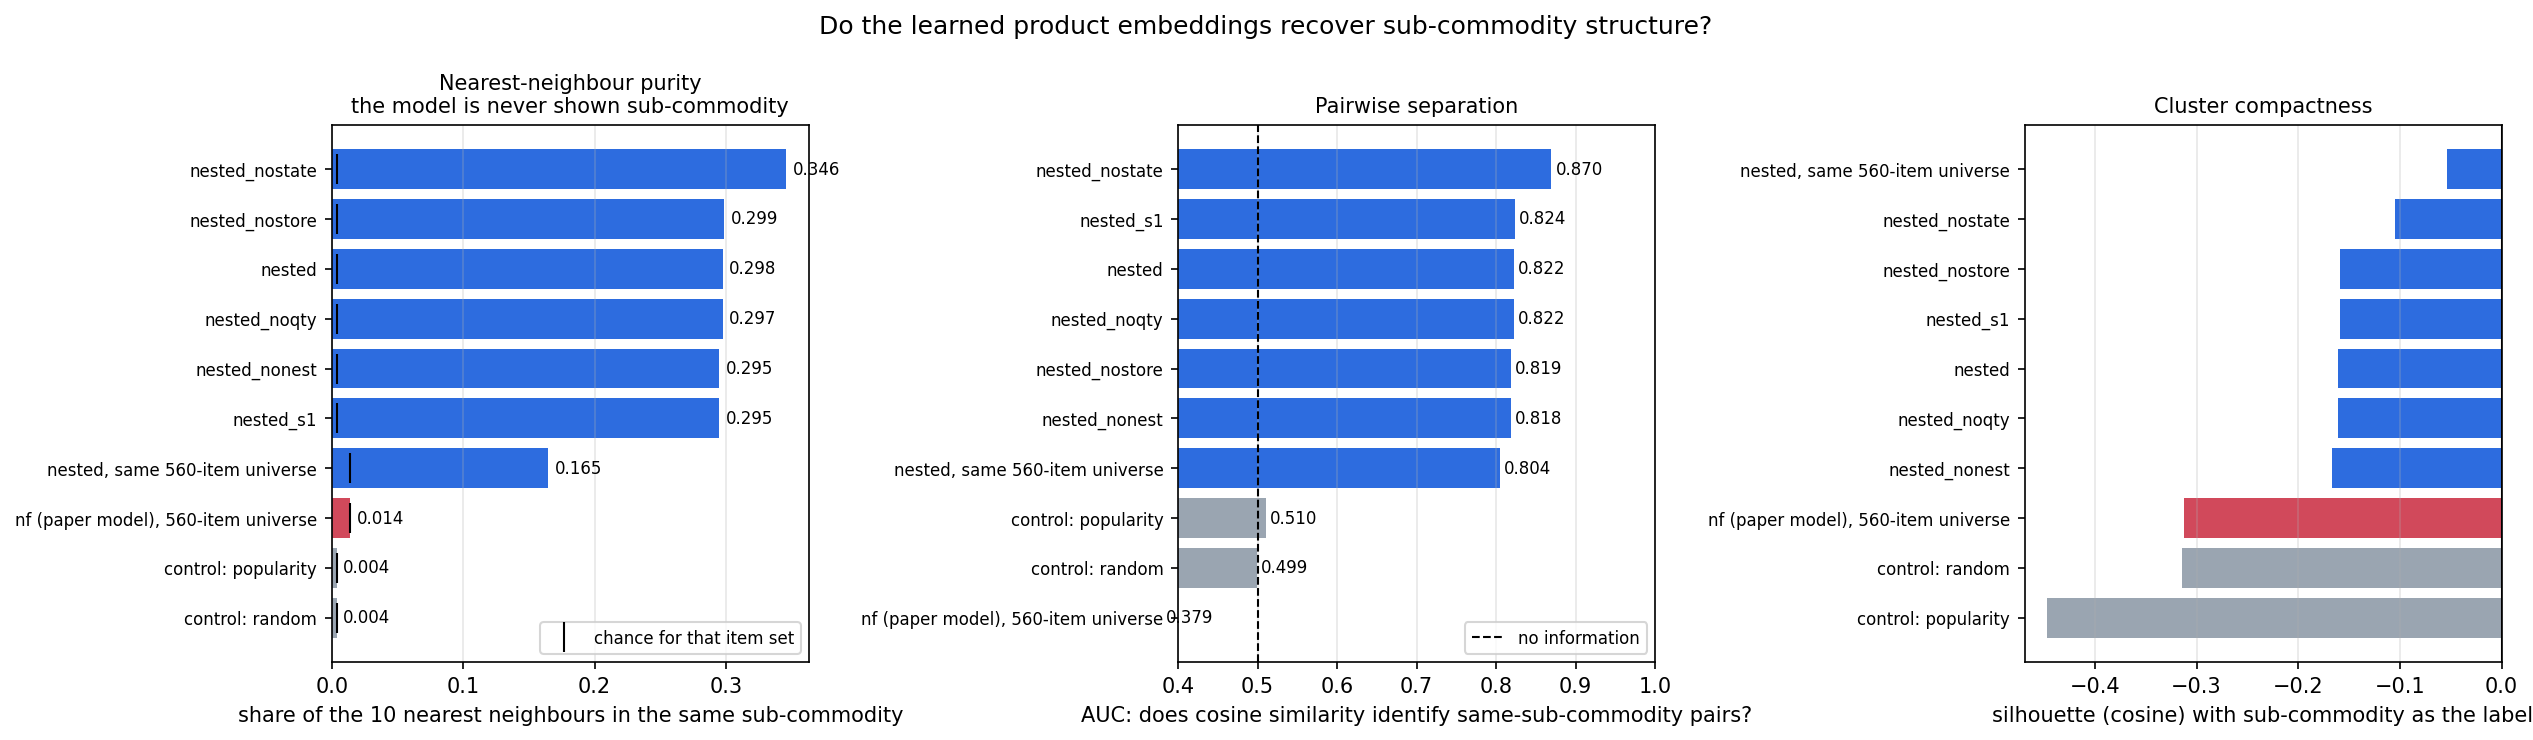
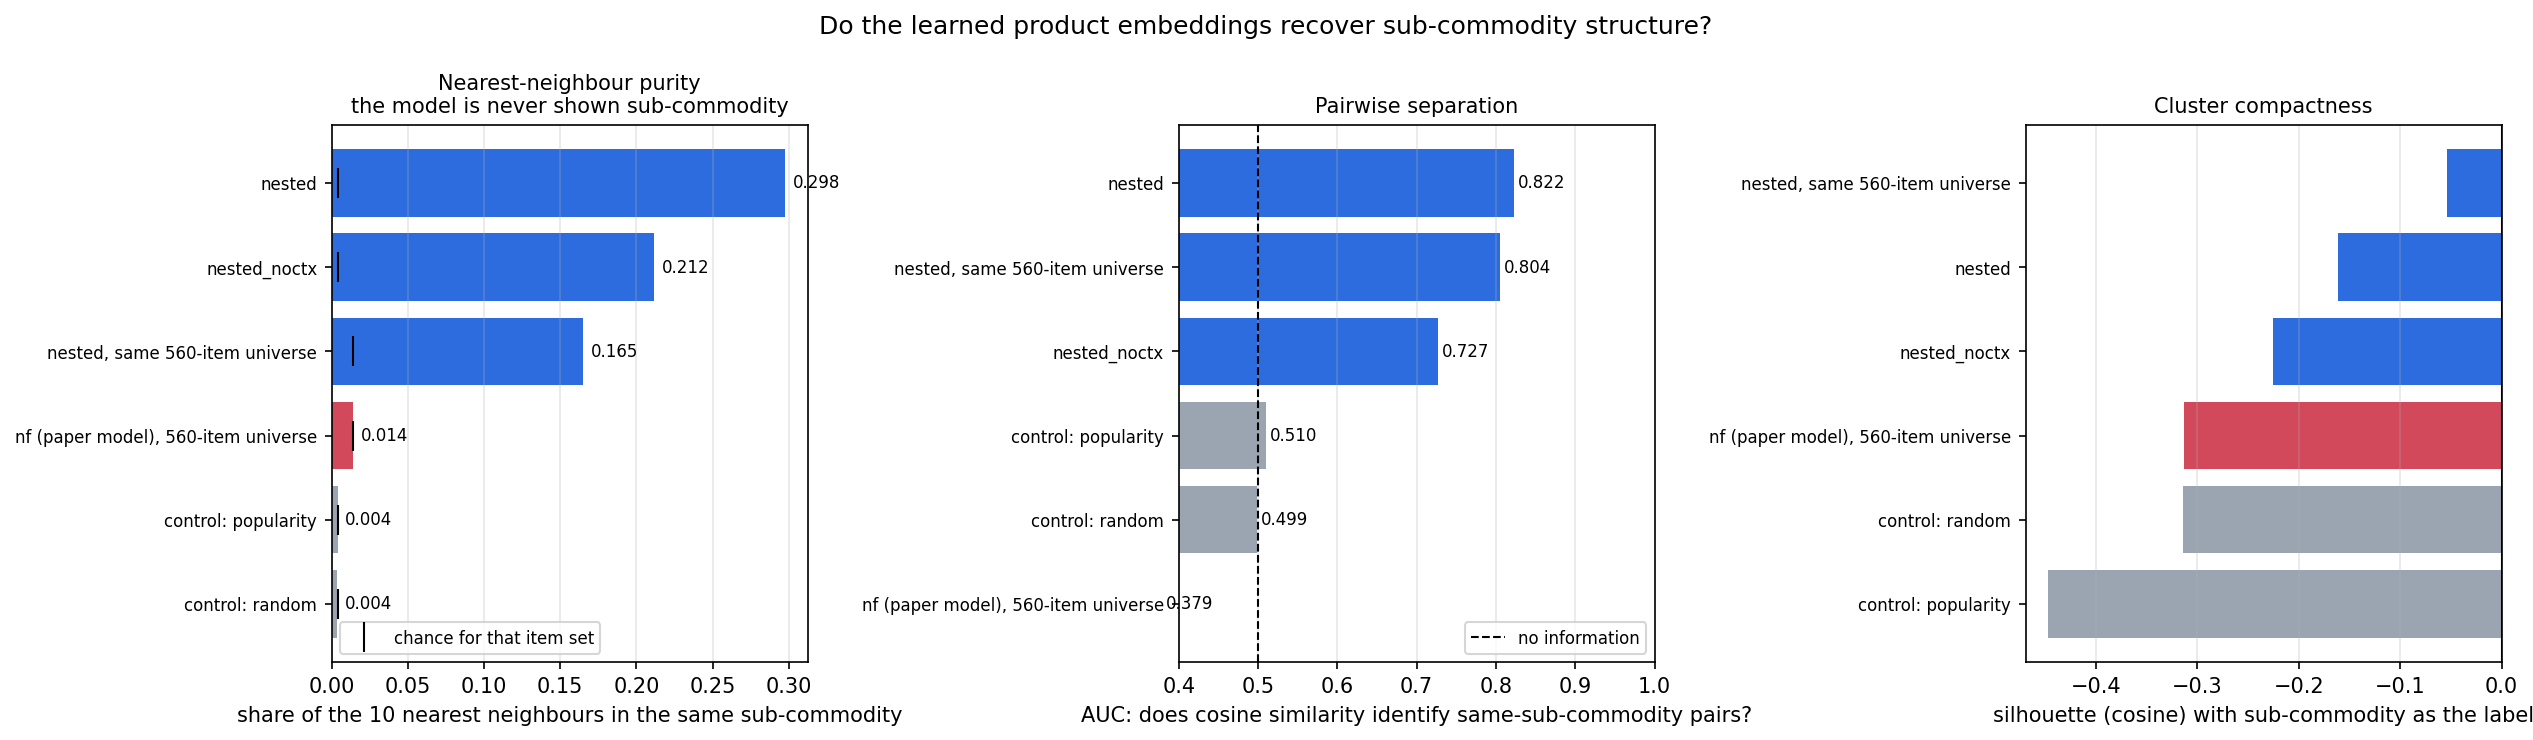
Audit the four concerns: interaction was never tested in the nested model
Asked whether generation, what-if on price, interaction and the nest-with-state
were all taken care of.  Checking each against the artefacts rather than against
my own summaries found three of four settled and the fourth -- interaction, the
original criticism -- untested here.

Confirmed from out/nested_counterfactual.json:

  generation   items -1.0%, units -1.4%, categories -3.8%
  what-if      -1.188 = -0.991 alloc + -0.058 incidence + -0.139 quantity, sums
               exactly; placebo retains 0.0%
  nest+state   kappa 0.663; state ablation 0.076 nats

Interaction was not.  27_nested_basket.py applied the tied term unconditionally
at line 258 -- there was no --no-context flag -- so every claim that it is
load-bearing rested on the flat model's evidence and nothing measured in this
one.  Now flagged and trained:

                    item log-lik   purity   AUC
  nested              -1.9927      0.298   0.822
  nested_noctx        -2.1074      0.212   0.727

0.115 nats, the second-largest component after store availability, 36x seed
noise, and the only thing besides the store mask that materially moves the
embedding.  The flat model's finding replicates.

The audit also turned up something no document stated: the interaction is inert
in three of the four places the model is used.  Context is zeroed for the
incidence head, for the elasticity decomposition, and in the generator.  The
first is correct by construction -- incidence is decided before the basket exists,
[…]

diff --git a/scripts/27_nested_basket.py b/scripts/27_nested_basket.py
@@ -192,13 +192,19 @@ class NestedModel(nn.Module):
     def __init__(self, d: NestedData, K=64, Kp=8, Kt=8, Ks=4, n_weeks=52, seed=0,
                  use_nest=True, use_quantity=True, use_store=True,
                  use_store_price=True, avail_only=False, use_state=True,
-                 use_breadth=True):
+                 use_breadth=True, use_context=True):
         super().__init__()
         g = torch.Generator().manual_seed(seed)
         J, N, C = d.J, d.N, d.C
         self.K, self.Kp, self.d = K, Kp, d
         self.use_nest, self.use_quantity, self.use_store = use_nest, use_quantity, use_store
         self.use_breadth = use_breadth
+        # The tied interaction alpha_j . alpha_bar(basket) carried over from the flat
+        # model, where BASKET_MODEL.md 2 shows tying is what forces co-purchase
+        # structure into the embedding the sub-commodity test reads.  It was
+        # hard-wired here and therefore never ablated in the nested model -- so the
+        # claim that it is load-bearing rested entirely on the flat model's evidence.
+        self.use_context = use_context
 
         def emb(n, k, sd=0.05):
             return nn.Parameter(torch.randn(n, k, generator=g) * sd)
@@ -255,7 +261,8 @@ class NestedModel(nn.Module):
         s = self.lam[items]
         a = self.alpha[items]
         s = s + torch.einsum("bk,bmk->bm", self.theta[users], a)
-        s = s + (a * ctx.unsqueeze(1)).sum(-1)
+        if self.use_context:
+            s = s + (a * ctx.unsqueeze(1)).sum(-1)
         s = s - (self.gamma[users].unsqueeze(1) * self.beta[items]).sum(-1) * dlogp
         if self.eta is not None:
             s = s + (self.eta[items] * state).sum(-1)
@@ -397,7 +404,12 @@ def incidence_batch(d, model, split, bidx, n_cat, rng, device, iv_cap=32):
             dlogp = dlogp + d.store_dev(blk_np.ravel(), store_r.ravel(),
                                         rw_r.ravel()).reshape(P, Mx)
         msk = msk * d.carried[blk, torch.as_tensor(store_r, device=device)].float()
-    # Incidence is decided before the basket exists, so there is no context yet.
+    # Incidence is decided before the basket exists, so there is no context yet: the
+    # inclusive value has to be what the category is worth on arrival, not after the
+    # basket is known.  Feeding a context here would be circular.  Note the
+    # consequence -- the interaction term is inert for the incidence head, and so for
+    # the incidence channel of the elasticity decomposition, which is why removing it
+    # barely moves anything outside item ranking (NESTED_MODEL.md 8.1).
     ctx = torch.zeros(P, model.K, device=device)
     u = model.item_utility(torch.as_tensor(user, device=device), blk, ctx, dlogp,
                            torch.as_tensor(st, device=device),
@@ -549,10 +561,11 @@ def main(a):
                         use_store=not a.no_store,
                         use_store_price=not (a.no_store_price or a.avail_only),
                         avail_only=a.avail_only, use_state=not a.no_state,
-                        use_breadth=not a.no_breadth).to(dev)
+                        use_breadth=not a.no_breadth,
+                        use_context=not a.no_context).to(dev)
     n_par = sum(p.numel() for p in model.parameters())
     log(f"model {a.label}: K={a.K} nest={not a.no_nest} quantity={not a.no_quantity} "
-        f"store={not a.no_store} store_price={model.use_store_price} "
+        f"context={not a.no_context} store={not a.no_store} "
         f"avail_only={a.avail_only} -> {n_par:,} parameters")
 
     opt = torch.optim.Adam(model.parameters(), lr=a.lr)
@@ -677,6 +690,8 @@ if __name__ == "__main__":
     p.add_argument("--no-breadth", action="store_true",
                    help="ablate the breadth head; generation then produces ~1.09 "
                         "distinct items per purchased category against a real 1.284")
+    p.add_argument("--no-context", action="store_true",
+                   help="ablate the tied within-basket interaction alpha_j . alpha_bar")
     p.add_argument("--no-state", action="store_true",
                    help="ablate the household recency state")
     p.add_argument("--no-store", action="store_true")

diff --git a/scripts/28_nested_counterfactual.py b/scripts/28_nested_counterfactual.py
@@ -104,6 +104,10 @@ def elasticity_decomposition(m, d, dev, n_trips=3000, seed=0):
     dlogp = d.log_price_dev[blk, torch.as_tensor(day_r, device=dev)]
     if m.use_store:
         msk = msk * d.carried[blk, torch.as_tensor(store_r, device=dev)].float()
+    # Context zeroed: the elasticity is evaluated at the point of category choice, so
+    # it is the pre-basket utility that matters.  This means the reported allocation
+    # channel excludes any interaction effect -- a price cut that changes what else
+    # lands in the basket is not counted here.  See NESTED_MODEL.md 9.
     u = m.item_utility(ut, blk, torch.zeros(len(rows), m.K, device=dev), dlogp,
                        torch.as_tensor(st, device=dev),
                        torch.as_tensor(week, device=dev),
@@ -187,6 +191,10 @@ def generate(m, d, dev, n_trips=4000, seed=0, n_cat_eval=24):
             if m.use_store:
                 msk = msk * d.carried[blk, torch.as_tensor(store_r, device=dev)].float()
             u = m.item_utility(torch.as_tensor(user, device=dev), blk,
+                               # Context zeroed: baskets are generated category by
+                               # category, so no basket exists yet to condition on.
+                               # A sequential generator that built the basket
+                               # incrementally could use it; this one cannot.
                                torch.zeros(T, m.K, device=dev), dlogp,
                                torch.as_tensor(st, device=dev),
                                torch.as_tensor(week, device=dev),

diff --git a/NESTED_MODEL.md b/NESTED_MODEL.md
@@ -266,6 +266,7 @@ as they are met.
 | 1 | **multiple items** per category and across categories | likelihood admits multisets; no unit-demand filter | 188 categories retained, none dropped for unit demand | ✅ met by construction |
 | 2 | **multiple quantities**, with interaction | quantity head with its own price coefficient | quantity elasticity distinguishable from zero and from the item one | ✅ +0.134 against the item's +0.794; 12% of total elasticity (§8.4) |
 | 2b | **multiple items per category** | breadth head | generated breadth matches real | ✅ 1.280 implied against a real 1.284 (§8.1) |
+| 2c | **product interaction** | tied `α_j · ᾱ(basket)` | ablation cost > seed noise, and it moves the embedding | ✅ 0.115 nats; purity 0.298 → 0.212 without it (§8.1b) — but inert outside the item head |
 | 3 | **household state as a level** | recency basis per (household, sub-commodity) | ablation cost > seed noise | ✅ 0.076 nats against a 0.0032 seed spread (§8.7) |
 | 4 | **nested theory retained** | κ estimated per category | κ identified, and its ablation reported | ✅ κ = 0.663, stable across seeds — but weakly identified (§8.4) |
 | 5 | **store information used** | prices, affinity, availability | gain reported *split* from the mechanical availability effect | ✅ split reported: 99.7% is the availability mask (§8.2) |
@@ -291,6 +292,7 @@ gap below larger than ~0.01 is real.
 | **`nested`** | **−1.9927** | 0.378 | 0.6666 | 0.1104 | — |
 | seed 1 | −1.9895 | 0.379 | 0.6693 | 0.1103 | — |
 | no store | −2.1820 | 0.355 | 0.6651 | 0.1102 | **0.189** |
+| no interaction | −2.1074 | 0.347 | 0.6666 | 0.1101 | **0.115** |
 | no state | −2.0684 | 0.360 | 0.6665 | 0.1106 | **0.076** |
 | prices scrambled | −2.0416 | 0.362 | 0.6887 | 0.1103 | 0.049 |
 | availability only | −1.9932 | 0.375 | 0.6651 | 0.1104 | 0.001 |
@@ -311,6 +313,7 @@ So each head has to be scored on its own quantity:
 | head | scored on | result |
 |---|---|---|
 | item | item log-lik, top-1 | −1.9927, 0.378 |
+| interaction (tied `α·ᾱ`) | item log-lik, and embedding purity | 0.115 nats; purity 0.298 → 0.212 without it |
 | incidence | incidence NLL, and κ | 0.1104; κ = 0.663 |
 | quantity | units per item in generation | 1.343 against a real 1.348 (§8.6) |
 | breadth | distinct items per category | 1.280 implied against a real 1.284 |
@@ -320,8 +323,42 @@ two runs agree to four decimals — yet without it generated baskets hold 6.94 i
 against a real 8.36, and with it 8.27 (§8.6). Judging it by the ablation column alone
 would have deleted the fix for the only criterion that was failing.
 
-**Seed spread is 0.0032 nats**, so the store, state and placebo gaps are 15–60× noise,
-and the three zero-cost heads are genuinely zero rather than small.
+**Seed spread is 0.0032 nats**, so the store, interaction, state and placebo gaps are
+15–60× noise, and the three zero-cost heads are genuinely zero rather than small.
+
+### 8.1b The interaction term, and where it is inert
+
+The tied interaction `α_j · ᾱ(basket)` was carried over from the flat model and was
+**hard-wired here until this audit** — there was no `--no-context` flag, so the claim
+that it is load-bearing rested entirely on the flat model's evidence rather than on
+anything measured in this one. It now has a flag, and it is:
+
+| | with interaction | without |
+|---|---|---|
+| item log-lik | **−1.9927** | −2.1074 |
+| embedding purity | **0.298** (69.6× chance) | 0.212 (49.5×) |
+| embedding AUC | **0.822** | 0.727 |
+
+**0.115 nats**, the second-largest component after store availability, and it is the
+only thing besides the store mask that materially moves the embedding. So the flat
+model's finding replicates here.
+
+**But it is inert in three of the four places the model is used**, which no document
+previously said:
+
+| where | context | why |
+|---|---|---|
+| item head | **active** | the basket is known; this is what the 0.115 measures |
+| incidence head | zeroed | incidence is decided *before* the basket exists — conditioning on it would be circular |
+| elasticity decomposition (§8.4) | zeroed | evaluated at the point of category choice, so pre-basket |
+| generator (§8.6) | zeroed | baskets are built category by category, so no basket exists yet to condition on |
+
+The first two are correct by construction. **The third is a real limitation**: the
+reported allocation channel excludes any interaction effect, so a price cut that
+changes *what else lands in the basket* is not counted in the −1.188. The fourth is a
+limitation of the sampler rather than the model — a sequential generator that built
+the basket incrementally could condition on what it had already placed. Both are now
+in §9.
 
 ### 8.2 Criterion 5 — stores, split honestly
 
@@ -450,7 +487,9 @@ fits is real, and now measured model-free rather than assumed.
 
 | issue | severity | state |
 |---|---|---|
-| Generated categories are 3.7% low, the largest remaining generation error | low — inside target | open |
+| Generated categories are 3.8% low, the largest remaining generation error | low — inside target | open |
+| **The elasticity decomposition excludes interaction.** Context is zeroed when the decomposition is computed, so a price cut that changes what *else* enters the basket is not counted in the −1.188 | medium — the number is a lower bound on the true own-price response | open |
+| **The generator builds baskets category by category**, so it cannot condition on what it has already placed. A sequential generator could use the interaction term; this one zeroes it | medium — generation matches marginals but may miss co-purchase structure | open |
 | Store-level prices and affinity contribute 0.0005 nats, although §7.3 of `DATA_EXPLORATION.md` shows households use 4 stores and switch on 30% of trips. Either the 2.3% grid coverage is too sparse or the chain price is already a good proxy | medium | open |
 | κ moved 1.411 → 0.790 → 0.663 across three incidence samplers — with the *sampler*, not the data. Stable across seeds now (0.663/0.674), but weakly identified | medium | documented, not resolved |
 | `np.searchsorted` is 40% of the step and is avoidable | low — performance only | open |
@@ -477,6 +516,7 @@ fits is real, and now measured model-free rather than assumed.
 | fix 10 | **incidence sampling switched from case-control to uniform** | the `log(π₁/π₀)` offset corrects the intercept but not `κ·(IV − ref)`, whose mean differs between sample and population. Uniform removes both biases at source: generated categories 6.39 against a real 6.49 |
 | fix 11 | generator draws units from the quantity head | it accumulated the category pick-count directly, giving every item exactly 1 unit — 1.007 against a real 1.348, while the head itself predicted 1.389 |
 | fix 12 | `--no-state` flag added | criterion 3 was written but could not be tested; the flag did not exist |
+| fix 14 | `--no-context` flag added | the tied interaction was hard-wired, so the claim that it is load-bearing rested on the flat model's evidence and had never been tested here. It costs 0.115 nats and 0.086 of embedding purity |
 | fix 13 | **breadth head** — `distinct items − 1 ~ Poisson`, per category | the only *model* gap among these fixes. The incidence head sees 0/1, so deriving a count from `P(buy)` can only ever yield ~1.0–1.1 items per purchased category against a real 1.284. Generation: items 6.94 → **8.27** against 8.36 |
 
 ---
